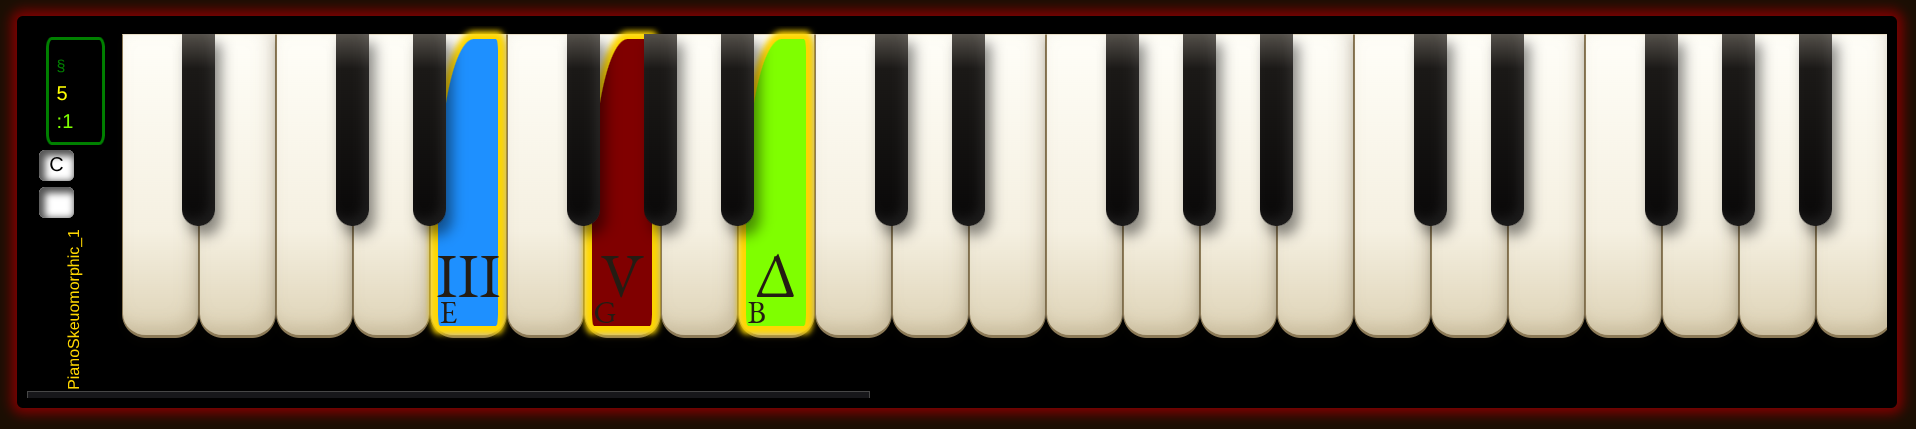
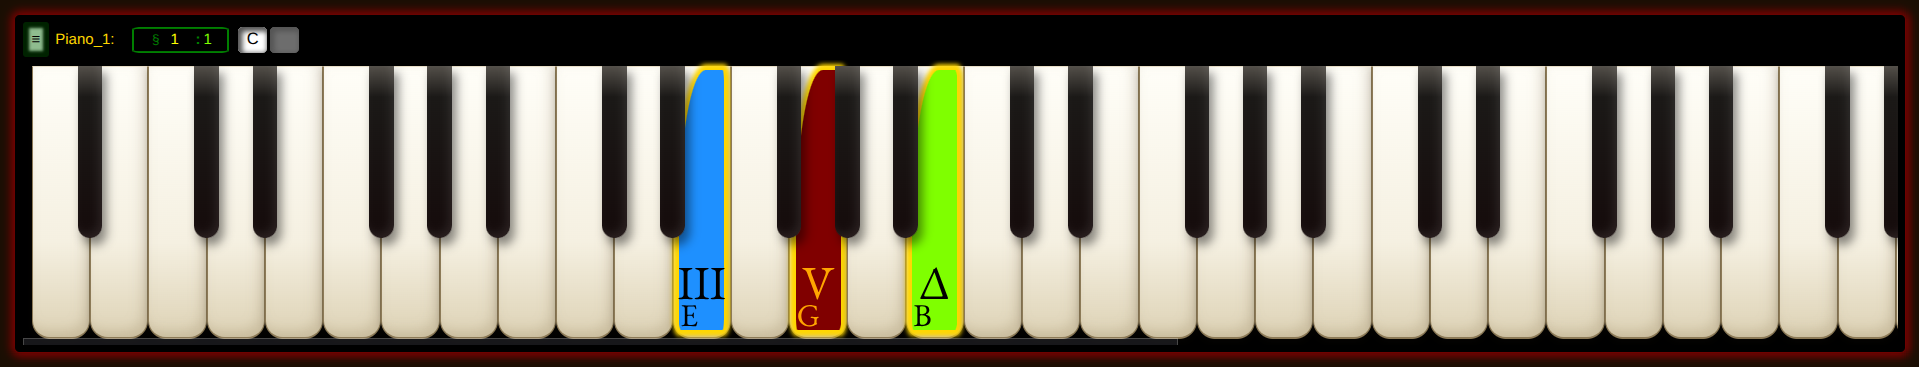
Updated help with Wiring updates: MUTE and Capture.  Added screenshots of Guitars and Pianos

diff --git a/help.html b/help.html
@@ -975,6 +975,15 @@
                         <li><a href="#renfaire">Renfaire</a></li>
                         <li><a href="#robin-hood">Robin Hood</a></li>
                         <li><a href="#shire">Shire</a></li>
+                        <li><a href="#theme-guitar">Guitar</li>
+                        <li><a href="#theme-guitar-white">Guitar White</li>
+                        <li><a href="#theme-guitar-black">Guitar Black</li>
+                        <li><a href="#Pianos">Pianos with "Piano Skeuo"</li>
+                            <ul>
+                                <li><a href="#piano-skeuomorphic.png">Piano</li>
+                                <li><a href="#organ-3rows">Organ 3 Rows</li>
+                            </ul>
+                        <li><a href="#SpecialRows-small">Special Rows</li>
                     </ul>
                 </li>
 
@@ -2035,10 +2044,13 @@ For all these examples, "Show Left Subscript" and "Show Right Subscript" are che
 <a name="divThemeControls"></a>
 <h3>Themes Menu</h3>
  <p>Normally, you can change Themes by just selecting one from the dropdown in the main menu button bar.
-    See screenshot of <a href="#themesGallery">Themes Gallery</a> in this helpfile.
+    See screenshots of <a href="#themesGallery">Themes Gallery</a> in this helpfile, where you can see the dropdown with the 
+    name of the themes, and the effect of the themes.
  </p>
  <p>The Theme menu is for tweaking the current Theme, and for building new Themes.  It's a bit techie, so we'll
-     explain it in a video at some point.
+     explain it in a video at some point.  In short, mash on the <b>Theme</b> button after changing some of the values, and your values
+     will be applied.  They are stored in a Theme called USER at the bottom of the Themes dropdown.  This theme is stored in your song, and will be used
+     on opening your song as the default Theme, unless you change to another Theme before you hit File | Download.
  </p>
 
 <a name="divFillNotes"></a>
@@ -2314,7 +2326,7 @@ For all these examples, "Show Left Subscript" and "Show Right Subscript" are che
                 <li><b>Instrument</b>: a dropdown list of other instruments, so you can "listen" to their NamedNotes, PlayedNotes, RecordedNotes, and Highlights.  
                     <ul>
                         <li>Notes you "listen" to 
-                    will be replayed in your instrument but not recorded in your instrument <!-- some day: (unless you turn on recording for your instrument)-->.
+                    will be replayed in your instrument but not recorded in your instrument.  To record them, click "Capture", which acts on the current Section.
 
                         <li>This is useful if you want to see the notes of a standard tuning song on the neck of your P4 turning, for example.
 
@@ -2342,6 +2354,21 @@ For all these examples, "Show Left Subscript" and "Show Right Subscript" are che
                         <li><b>[Wired]</b> means you are actively listening to another instrument in this Section, or in another Section with Relative Section Amount.  
                             Change either Relative Section Amount or selected Instrument to have the button go to <b>[Add Wiring]</b> state so you can change the wiring.
                         </li>
+                    </ul>
+                </li>
+                <li><b>MUTE</b>  
+                    <ul>
+                        <li>When <b>red</b>, it mutes the Listening that may be in effect, so you only see the notes in this instrument.</li>
+                        <li>When <b>orange</b>, it means the instrument is wired as a Listener, but is not muted, so you can click to mute. 
+                        </li>When <b>gray</b> and <s>strikethrough</s>, it means the instrument is not wired as a Listener.
+                    </ul>
+                </li>
+                <li><b>Capture</b>  
+                    <ul>
+                        <li>When <b>orange</b>, it means the instrument is wired as a Listener, 
+                            and you can click to copy Listened-to notes in this Section into this instrument's 
+                            own notes, which you'll see when you MUTE or un-wire by clicking on the red Wired button. 
+                        </li>When <b>gray</b> and <s>strikethrough</s>, it means the instrument is not wired as a Listener.
                     </ul>
                 </li>
             </ul>
@@ -4649,36 +4676,37 @@ to hide menus and the <a href="#commandline">command-line</a>.</p>
 <a name="themesGallery"></a>
 <h2>Themes Gallery</h2>
 
- <p>Themes, we got Themes, baby!  Just choose one from the dropdown (or edit them in super-geek mode under the <a href="#divThemeControls">Themes Menu</a>).</p>
+ <p>Themes, we got Themes, baby!  Just choose one from the dropdown 
+    (or edit them in super-geek mode under the <a href="#divThemeControls">Themes Menu</a>).</p>
 
- <p>
+ 
     <a name="adult-swim"></a>
     <h3>Adult Swim</h3>
-    <img width="80%" src="img/help/theme-adult-swim.png"><br><br>
+ <p>    <img width="80%" src="img/help/theme-adult-swim.png"><br><br></p>
     <a name="everyone-into-the-pool"></a>
     <h3>Everyone into the Pool</h3>
-    <img width="80%" src="img/help/theme-everyone-into-the-pool.png"><br><br>
+<p>     <img width="80%" src="img/help/theme-everyone-into-the-pool.png"><br><br></p>
     <a name="zinfandel"></a>
     <h3>Zinfandel</h3>
-    <img width="80%" src="img/help/theme-zinfandel.png"><br><br>
+<p>      <img width="80%" src="img/help/theme-zinfandel.png"><br><br></p>
     <a name="autobahn"></a>
     <h3>Autobahn</h3>
-    <img width="80%" src="img/help/theme-autobahn.png"><br><br>
+<p>     <img width="80%" src="img/help/theme-autobahn.png"><br><br></p>
     <a name="late-nite"></a>
     <h3>Late Nite</h3>
-    <img width="80%" src="img/help/theme-late-nite.png"><br><br>
+<p>     <img width="80%" src="img/help/theme-late-nite.png"><br><br></p>
     <a name="big-in-japan"></a>
     <h3>Big in Japan</h3>
-    <img width="80%" src="img/help/theme-big-in-japan.png"><br><br>
+<p>      <img width="80%" src="img/help/theme-big-in-japan.png"><br><br></p>
     <a name="pool-shark"></a>
     <h3>Pool Shark</h3>
-    <img width="80%" src="img/help/theme-pool-shark.png"><br><br>
+<p>      <img width="80%" src="img/help/theme-pool-shark.png"><br><br></p>
     <a name="blade"></a>
     <h3>Blade</h3>
-    <img width="80%" src="img/help/theme-blade.png"><br><br>
+<p>      <img width="80%" src="img/help/theme-blade.png"><br><br></p>
     <a name="coffy-brown"></a>
     <h3>Coffy Brown</h3>
-    <img width="80%" src="img/help/theme-coffee-brown.png"><br><br>
+<p>     <img width="80%" src="img/help/theme-coffee-brown.png"><br><br></p>
     <a name="landau-top"></a>
     <h3>Landau Top</h3>
     <p>For those of you who didn't live through the 70's
@@ -4687,31 +4715,57 @@ to hide menus and the <a href="#commandline">command-line</a>.</p>
         with these hip-daddy colors. 
         <br><img src="img/help/monte-carlo-78.png" width="500"></li>
     </p>
-    <img width="80%" src="img/help/theme-landau-top.png"><br><br>
+<p>     <img width="80%" src="img/help/theme-landau-top.png"><br><br></p>
     <a name="renfaire"></a>
     <h3>Renfaire</h3>
-    <img width="80%" src="img/help/theme-renfaire.png"><br><br>
-    <img width="80%" src="img/help/theme-renfaire-90.png"><br><br>
+<p>     <img width="80%" src="img/help/theme-renfaire.png"><br><br></p>
+<p>      <img width="80%" src="img/help/theme-renfaire-90.png"><br><br></p>
     <a name="robin-hood"></a>
     <h3>Robin Hood</h3>
-    <img width="80%" src="img/help/theme-robin-hood.png"><br><br>
+<p>      <img width="80%" src="img/help/theme-robin-hood.png"><br><br></p>
     <a name="shire"></a>
     <h3>Shire</h3>
-    <img width="80%" src="img/help/theme-shire.png"><br><br>
- </p>
+<p>      <img width="80%" src="img/help/theme-shire.png"><br><br></p>
 
+    <a name="theme-guitar"></a>
+    <h3>Guitar</h3>
+<p>      <img width="80%" src="img/help/theme-guitar.png"><br><br></p>
+ 
+    <a name="theme-guitar-white"></a>
+    <h3>Guitar White</h3>
+<p>      <img width="80%" src="img/help/theme-guitar-white.png"><br><br></p>
+ 
+    <a name="theme-guitar-black"></a>
+    <h3>Guitar Black</h3>
+ <p>     <img width="80%" src="img/help/theme-guitar-black.png"><br><br></p>
+
+
+ <a name="Pianos"></a>
+<h2>Pianos with "Piano Skeuo"</h2>
+    <p>These Pianos are not a Theme, but they are special in that they don't follow Themes, they have unique styling.</p>
+<a name="piano-skeuomorphic.png"></a>
+<h3>Piano</h3>
+     <p><img width="80%" src="img/help/piano-skeuomorphic.png"></p>
+     <br>
+     <br>
+<a name="organ-3rows"></a>
+<h3>Organ 3 Rows</h3>
+     <p><img width="80%" src="img/help/organ-3rows.png"><br><br></p>
+
+<h3 id="SpecialRows-small">Special Rows</h3>
  <p>
-        If you see that the top two rows are a different color scheme, you might have Special Rows turned on by default.
+        If you see that the top two rows are a different color scheme, you have Special Rows turned on by default.
+        These mark the special rows on a Standard-tuning guitar that are not in Perfect 4ths.
         See the instructions <a href="#tunings-special-rows">Help: Special Rows</a> topic to see how to change it.
  </p>
  <p>
     Here SR is checked, and the Special Rows and displayed in other colors:
         <br> <br><img style="width:25%;" src="img/help/context/S6-SpecialRows-on.png">
-    </p>
-    <p>
-        Here SR is unchecked, and the Special Rows are displayed normally:
-          <br> <br><img style="width:25%;" src="img/help/context/S6-SpecialRows-off.png">
-    </p>
+</p>
+<p>
+    Here SR is unchecked, and the Special Rows are displayed normally:
+        <br> <br><img style="width:25%;" src="img/help/context/S6-SpecialRows-off.png">
+</p>
 
 
 <br>

diff --git a/_doco/design/sprints/119-cleanup/sprint-119.md b/_doco/design/sprints/119-cleanup/sprint-119.md
@@ -107,6 +107,7 @@ Here are the work items, grouped by status.
       pluginManager.refreshPluginsMenuNode();
     }
   ```
+  Cody also made an attempt to do this in command-line.js hardcoding for /fpoa, which I rolled back but committed in git for history.
 
 ## Deferred
 
